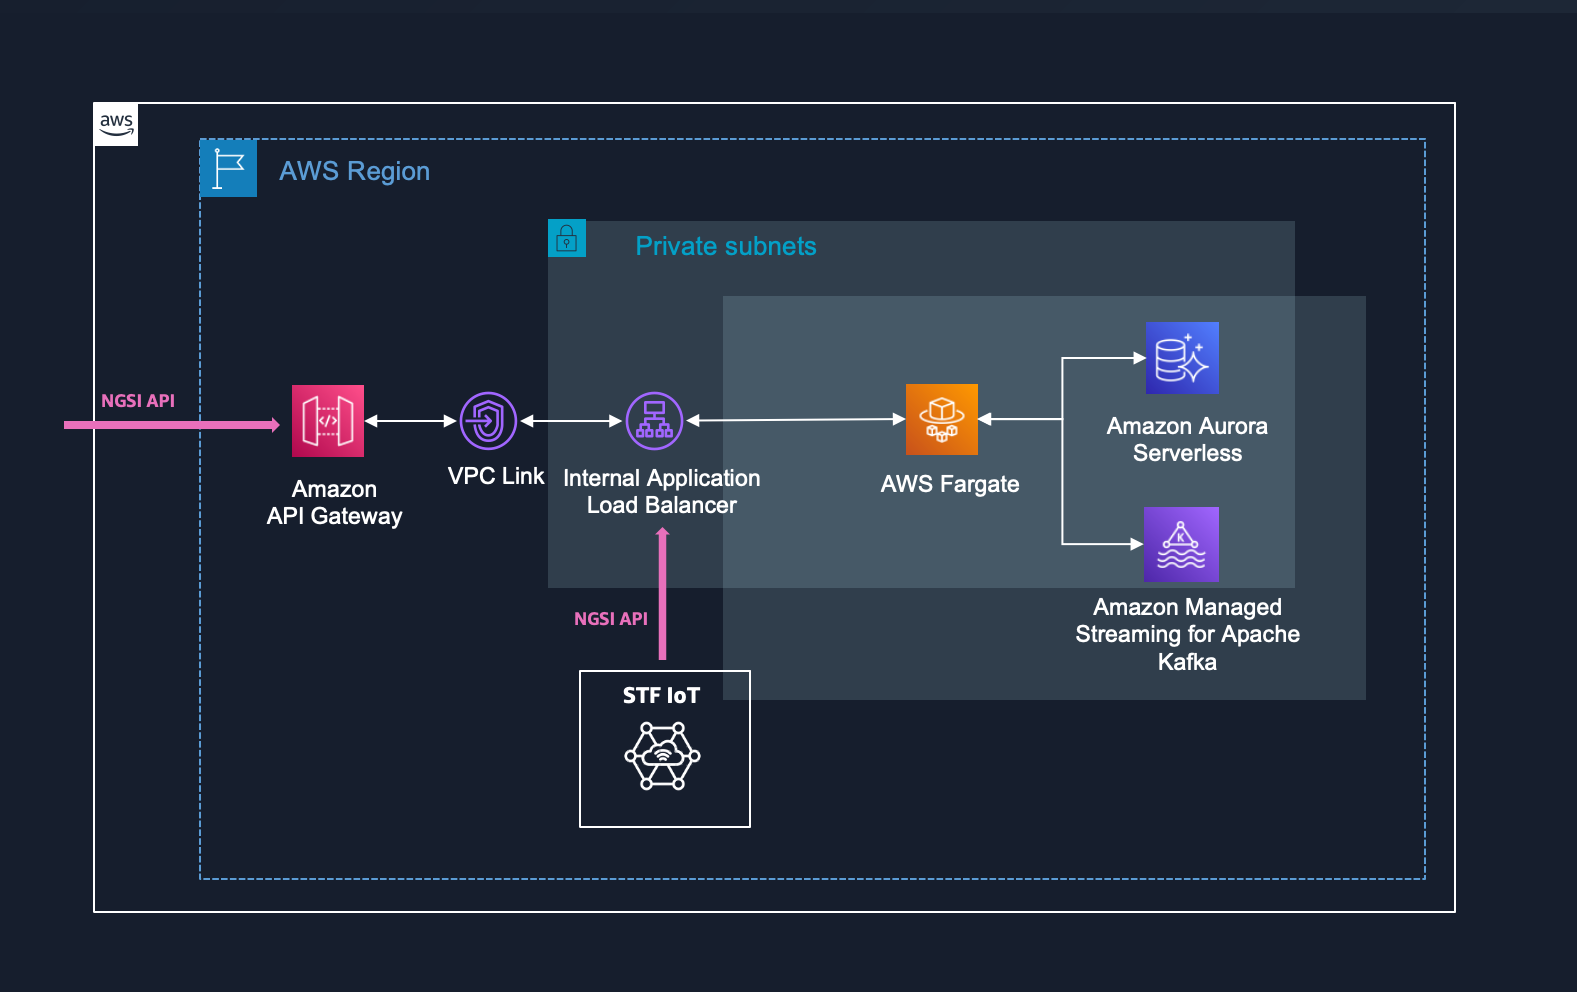
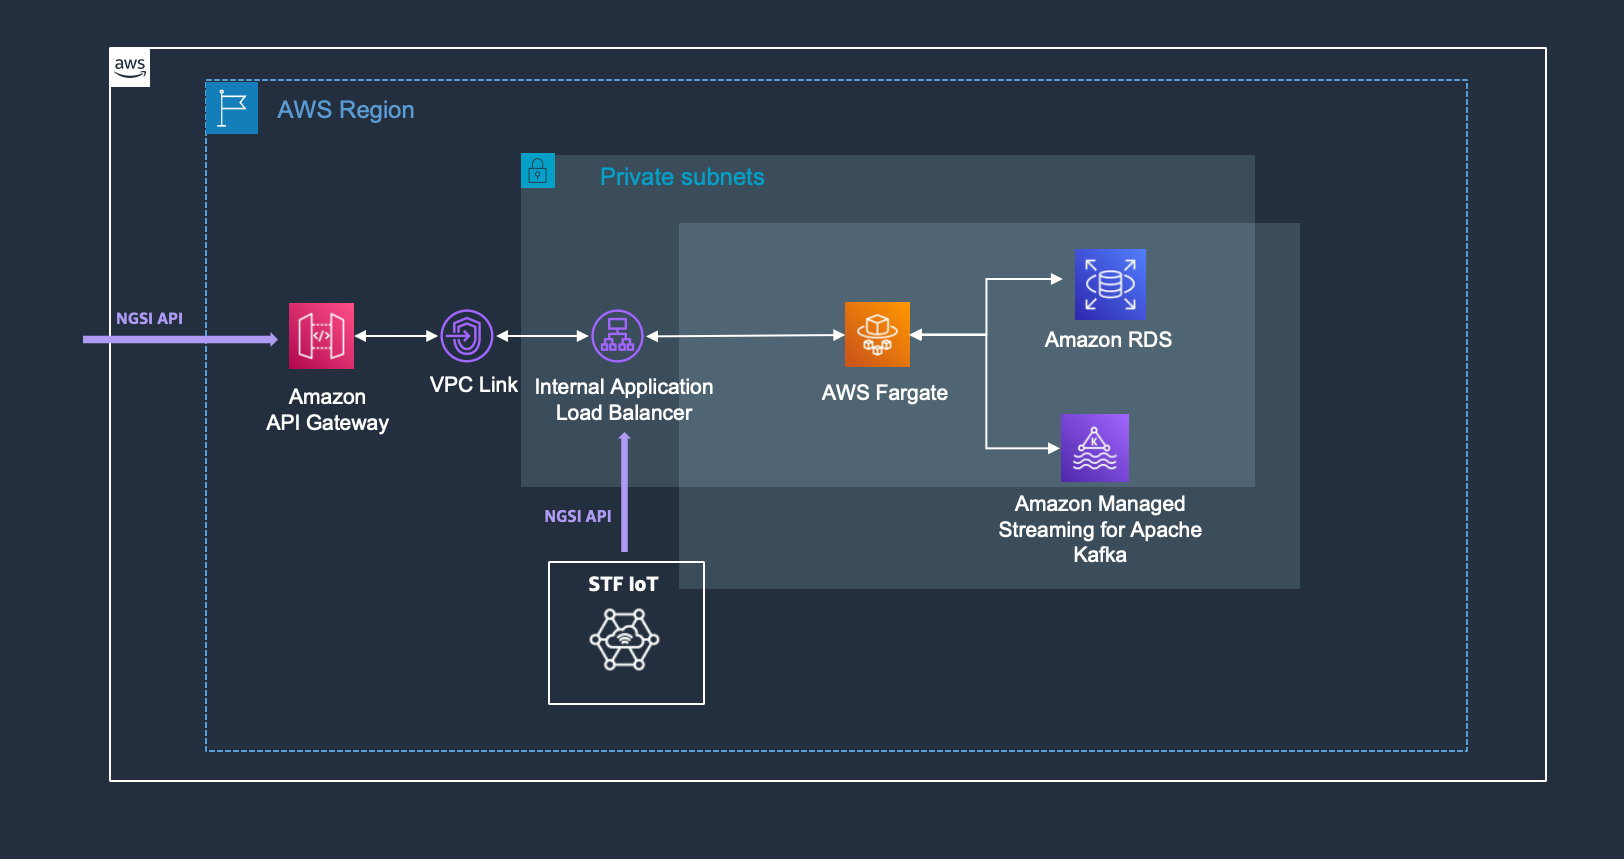
version 1.1.0

diff --git a/lib/stacks/stf-iot/stf-iot-api/index.ts b/lib/stacks/stf-iot/stf-iot-api/index.ts
@@ -38,49 +38,48 @@ export class StfIotApi extends Construct {
         const AWS_IOT_ENDPOINT = get_iot_endpoint.getResponseField('endpointAddress')
 
         // ENABLE FLEET INDEXING
+        let fleet_param 
+        if(Parameters.stf_iot.shadow_indexing){
+            fleet_param = {
+                "thingIndexingConfiguration": {
+                    "thingIndexingMode": "REGISTRY_AND_SHADOW",
+                    "namedShadowIndexingMode": "ON",
+                    "filter": {
+                        "namedShadowNames": [
+                            `${Parameters.stf_iot.shadow_prefix}-Device`
+                        ]
+                    }
+    
+                },
+                "thingGroupIndexingConfiguration": {
+                    "thingGroupIndexingMode": "ON"
+                }
+            }
+        } else {
+            fleet_param = {
+                "thingIndexingConfiguration": {
+                    "thingIndexingMode": "REGISTRY"
+                },
+                "thingGroupIndexingConfiguration": {
+                    "thingGroupIndexingMode": "ON"
+                }
+            }
+        }
+
+
 
         const fleet_indexing = new AwsCustomResource(this, 'IoTFleetIndexing', {
             onCreate: {
                 service: 'Iot',
                 action: 'updateIndexingConfiguration',
                 physicalResourceId: PhysicalResourceId.of(Date.now().toString()),
-                parameters: {
-                    "thingIndexingConfiguration": {
-                        "thingIndexingMode": "REGISTRY_AND_SHADOW",
-                        "thingConnectivityIndexingMode": "STATUS",
-                        "namedShadowIndexingMode": "ON",
-                        "filter": {
-                            "namedShadowNames": [
-                                `${Parameters.stf_iot.shadow_prefix}-Device`
-                            ]
-                        }
-
-                    },
-                    "thingGroupIndexingConfiguration": {
-                        "thingGroupIndexingMode": "ON"
-                    }
-                }
+                parameters: fleet_param
               },
               onUpdate: {
                 service: 'Iot',
                 action: 'updateIndexingConfiguration',
                 physicalResourceId: PhysicalResourceId.of(Date.now().toString()),
-                parameters: {
-                    "thingIndexingConfiguration": {
-                        "thingIndexingMode": "REGISTRY_AND_SHADOW",
-                        "thingConnectivityIndexingMode": "STATUS",
-                        "namedShadowIndexingMode": "ON",
-                        "filter": {
-                            "namedShadowNames": [
-                                `${Parameters.stf_iot.shadow_prefix}-Device`
-                            ]
-                        }
-
-                    },
-                    "thingGroupIndexingConfiguration": {
-                        "thingGroupIndexingMode": "ON"
-                    }
-                }
+                parameters: fleet_param
               },
               policy: AwsCustomResourcePolicy.fromSdkCalls({resources: AwsCustomResourcePolicy.ANY_RESOURCE})
         })

diff --git a/lib/stacks/stf-iot/stf-iot-core/lambda/updateContextBroker/index.js b/lib/stacks/stf-iot/stf-iot-core/lambda/updateContextBroker/index.js
@@ -10,16 +10,17 @@ const URL_SMART_DATA_MODEL = process.env.URL_SMART_DATA_MODEL
 
 
 exports.handler = async (event, context) => {
-    try {
-        for await (let msg of event.Records){
 
+    try {
+        let entities = []
+
+        for await (let msg of event.Records){
             let payload = JSON.parse(msg.body)
             const thingName = `${payload.id.split(':').slice(-1)}`
-          
             if(!payload.id || !payload.type){
-                throw new Error('Invalid entity - id or type is missing')
+                throw new Error('Invalid entity: id or type is missing')
             }
-            
+
             // Check if location property is in the payload. If not, get it from the Stf-Device named shadow 
             if(!payload.location && payload.type != 'Device') {
                 
@@ -51,34 +52,17 @@ exports.handler = async (event, context) => {
                     console.log(e.message)
                 }
             }
-            const entity_id = payload.id
-            const entity_type = payload.type
-            delete payload.id
-            delete payload.type
-
             if (payload.raw) delete payload.raw
-
-            const headers = {
-                'Content-Type': 'application/json',
-                'Link': `<${URL_SMART_DATA_MODEL}>; rel="http://www.w3.org/ns/json-ld#context"; type="application/ld+json"`
-                }
-            try {
-                let update_entity = await axios.post(`${dns_broker}/entities/${entity_id}/attrs`, payload, {headers: headers, timeout: timeout}) 
-            } catch (e) {
-                if (e.response){
-                    if (e.response.status == 404){
-                        try {
-                            payload.id = entity_id
-                            payload.type = entity_type
-                            let create_entity = await axios.post(`${dns_broker}/entities`, payload, {headers: headers, timeout: timeout})
-                        } catch (e) {
-                            log_error(event,context, e.message, e)
-                        }
-                    }
-                } else {
-                    log_error(event,context, e.message, e)
-                }     
+            entities.push(payload)
+        }
+        const headers = {
+            'Content-Type': 'application/json',
+            'Link': `<${URL_SMART_DATA_MODEL}>; rel="http://www.w3.org/ns/json-ld#context"; type="application/ld+json"`
             }
+        try {
+            let upsert = await axios.post(`${dns_broker}/entityOperations/upsert`, entities, {headers: headers, timeout: timeout}) 
+        } catch (e) {
+            log_error(event,context, e.message, e)  
         }
     } catch (e) {
         log_error(event,context, e.message, e)

diff --git a/parameters.ts b/parameters.ts
@@ -4,19 +4,20 @@ import { AuroraCapacityUnit, StorageType } from "aws-cdk-lib/aws-rds";
 
 export const Parameters = {
     stf_iot: {
-        new_bucket: true, // If true, the stack will create the bucket for the STF IoT DataLake. Set to false if you have already a bucket created. 
+        new_bucket: false, // If true, the stack will create the bucket for the STF IoT DataLake. Set to false if you have already a bucket created. 
         bucket_name: `stf-iot-datalake-${Aws.REGION}-${Aws.ACCOUNT_ID}`, // Default name, change only if needed.
         shadow_prefix: "Stf",
         sqs_iot_queue_name: `StfIoTQueue-${Aws.REGION}`, // Default name, change only if needed.
         smart_data_model_url : 'https://raw.githubusercontent.com/smart-data-models/data-models/master/context.jsonld',
         timeout: '0', // Timeout for the API call in the Lambda that sync with context broker. Has to be a string to pass it in env variable 
+        shadow_indexing: false // Activating Fleet Indexing for the shadows will occur costs, see https://aws.amazon.com/iot-device-management/pricing/ 
     }, 
     stf_scorpio: {
-        image_context_broker: 'public.ecr.aws/scorpiobroker/scorpio-aio:latest', // Like to ECR Public gallery of Scoprio Broker image.
+        image_context_broker: 'public.ecr.aws/scorpiobroker/scorpio-aio:latest', // Link to ECR Public gallery of Scorpio Broker image.
         rds_instance_type: InstanceType.of( InstanceClass.BURSTABLE4_GRAVITON, InstanceSize.SMALL), // see https://aws.amazon.com/rds/instance-types/
         rds_storage_type: StorageType.GP3, // see https://docs.aws.amazon.com/AmazonRDS/latest/UserGuide/CHAP_Storage.html
         dabaseName: 'scorpio',
-        aurora_serverless: false, // If false, this will create a RDS PostgreSQL Database instance.
+        aurora_serverless: false, // If false, this creates a RDS PostgreSQL Database instance. If true, this creates an Aurora Cluster.  
         aurora_scaling: {
             maxCapacity: AuroraCapacityUnit.ACU_4,
             minCapacity: AuroraCapacityUnit.ACU_2      
@@ -26,7 +27,8 @@ export const Parameters = {
         kafka_version: "3.3.1", // see https://docs.aws.amazon.com/msk/latest/developerguide/supported-kafka-versions.html  
         kafka_instance_type: "kafka.t3.small", // see https://docs.aws.amazon.com/msk/latest/developerguide/bestpractices.html
         kafka_cluster_name: 'ScorpioCluster', 
-        kafka_storage_size: 100 //  see https://docs.aws.amazon.com/msk/latest/developerguide/bestpractices.html
+        kafka_storage_size: 100, //  see https://docs.aws.amazon.com/msk/latest/developerguide/bestpractices.html
+        fargate_desired_count: 2
     },
     vpc_link_name: 'scorpio-serverless-vpc-link'
 }

diff --git a/lib/stacks/stf-iot/stf-iot-api/lambda/getThings/index.js b/lib/stacks/stf-iot/stf-iot-api/lambda/getThings/index.js
@@ -26,7 +26,7 @@ exports.handler = async (event) => {
 
         let {things, nextToken} = await iot.searchIndex({
             nextToken: nToken,
-            queryString: `shadow.name.${shadow_prefix}-${index}.reported.type:*`,
+            queryString: `thingName:*`,
             indexName: 'AWS_Things'
         }).promise()
 
@@ -35,7 +35,7 @@ exports.handler = async (event) => {
                     { thingName: curr.thingName, 
                       thingGroupNames: curr.thingGroupNames, 
                       thingTypeName: curr.thingTypeName, 
-                      entity: {...JSON.parse(curr.shadow).name[`${shadow_prefix}-${index}`].reported}
+                      entity: {...JSON.parse(curr?.shadow)?.name[`${shadow_prefix}-${index}`]?.reported}
                     }
             ]
         }, [])

diff --git a/lib/stacks/scorpio-serverless/fargate/index.ts b/lib/stacks/scorpio-serverless/fargate/index.ts
@@ -83,7 +83,7 @@ export class ScorpioServerlessFargate extends Construct {
                 rollback: true
             },
             cpu: 512, 
-            desiredCount: 2, 
+            desiredCount: Parameters.stf_scorpio.fargate_desired_count, 
             publicLoadBalancer: false, 
             taskImageOptions: {
                 image: ContainerImage.fromRegistry(props.image_context_broker),

diff --git a/lib/stacks/scorpio-serverless/networking/index.ts b/lib/stacks/scorpio-serverless/networking/index.ts
@@ -16,6 +16,7 @@ export class ScorpioServerlessNetworking extends Construct{
 
         // VPC 
         const vpc = new Vpc(this, 'VpcStfScorpioServerless', {
+            natGateways: 1, 
             subnetConfiguration: [
                 {
                     subnetType: SubnetType.PRIVATE_WITH_EGRESS,

diff --git a/README.md b/README.md
@@ -13,14 +13,14 @@ __This README is not yet updated to Version 1.1.0__
 
 ## Overview 
 
-The Smart Territory Framework - STF - is a set of tools and standardized modules that our partners and customers can assemble together to build and operate sustainable and highly effective solutions. 
+The Smart Territory Framework – STF – is an open-source framework that makes it easier and faster to create and operate interoperable platforms. STF supports the development and integration of smart and efficient solutions across multiple domains such as Smart Cities, Campuses and Regions; Energy and Utilities; Agriculture; Smart Building and Manufacturing.
 
 The STF complies with [NGSI-LD](https://www.etsi.org/technologies/internet-of-things) standard and leverages the NGSI-LD compliant [Smart Data Models](https://smartdatamodels.org/) initiative that provides open-licensed data models for different [domains](https://github.com/smart-data-models/data-models/tree/master/specs) such as Smart Cities, Smart Agrifood, Smart Environment, Smart Sensoring, Smart Energy, Smart Water, Smart Destination, Smart Robotics and Smart Manufacturing.
 
 Modular and built on open source and standards, the STF makes it easy to integrate existing solutions and add new capabilities and modules over time to its **core**. The core of the STF - STF Core - consists of two modules: the STF IoT module and the open-source FIWARE Context Broker.
 
 This repository contains an [AWS CDK](https://aws.amazon.com/cdk) application that enables you to deploy the STF Core stack. The STF Core stack consists of two nested stacks: 
-- a stack to deploy the NEC Scorpio Context Broker (using [Serverless services on AWS](https://aws.amazon.com/serverless/?nc1=h_ls)),
+- a stack to deploy the NEC Scorpio Context Broker,
 - a stack to deploy the STF IoT module.
 
 <br>
@@ -65,8 +65,8 @@ The STF Core leverages [Serverless services on AWS](https://aws.amazon.com/serve
 [NEC Laboratories Europe](https://www.neclab.eu/) and AWS have [worked together]((https://neclab.eu/about-us/press-releases/detail/nec-ngsi-ld-scorpio-broker-selected-for-amazon-web-services-smart-territories-framework)) to provide a scalable and available implementation of the NEC Scorpio Broker 2.0 on AWS using:
 
 - [AWS Fargate](https://aws.amazon.com/fargate/?nc1=h_ls) to easily run and scale the [NEC Scorpio Broker container](https://gallery.ecr.aws/j9u9o5d1/). 
-- [Amazon Aurora Serverless](https://aws.amazon.com/rds/aurora/serverless/?nc1=h_ls) to automatically start up, shut down, and scale capacity up or down for the PostgreSQL database used by NEC Scorpio Broker. 
-- **[ Coming soon ]** [Amazon MSK Serverless](https://aws.amazon.com/msk/features/msk-serverless/) to make it easy to run the Apache Kafka used by NEC Scorpio Broker without having to manage and scale cluster capacity. **For now, this stack uses [Amazon MSK](https://aws.amazon.com/msk/)**. 
+- [Amazon RDS](https://aws.amazon.com/rds) or [Amazon Aurora Serverless](https://aws.amazon.com/rds/aurora/serverless/?nc1=h_ls) for the PostgreSQL database used by NEC Scorpio Broker. 
+- [Amazon MSK](https://aws.amazon.com/msk) to make it easy to run the Apache Kafka used by NEC Scorpio Broker. 
 
 <br>
 
@@ -90,11 +90,13 @@ It also consists of an IoT data lake built on [Amazon S3](https://aws.amazon.com
 
 The STF IoT module provides a [central registry](https://docs.aws.amazon.com/iot/latest/developerguide/iot-thing-management.html) to store all your devices following the Smart Data Model [```Device```](https://github.com/smart-data-models/dataModel.Device/blob/master/Device/README.md). 
 
-All measurements and data produced by a device are linked to the registered device and stored in its [Device Shadows](https://docs.aws.amazon.com/iot/latest/developerguide/iot-device-shadows.html) following the relevant data model like for example [```AirQualityObserved```](https://github.com/smart-data-models/dataModel.Environment/blob/master/AirQualityObserved/README.md) for air quality measurements. 
+All measurements and data produced by a device are linked to the registered device and stored in its [Device Shadows](https://docs.aws.amazon.com/iot/latest/developerguide/iot-device-shadows.html) using the relevant data model like for example [```AirQualityObserved```](https://github.com/smart-data-models/dataModel.Environment/blob/master/AirQualityObserved/README.md) for air quality measurements. 
 
 This gives an exhaustive view in real-time of the state of the device and its measurements providing Digital Twin capabilities. The STF IoT module is synchronized in real-time with the Context Broker so any change that occurs in the STF IoT module is replicated in the Context Broker and stored as well in the STF IoT Data Lake.
 
-The STF IoT Data Lake is built on top of Amazon S3. A bucket named ```stf-iot-datalake-${Aws.REGION}-${Aws.ACCOUNT_ID}``` is created when this stack is deployed. You can use an existing bucket by modifying the STF IoT Data Lake construct ([Link](./lib/stacks/stf-iot/stf-iot-stack.ts) to the file). 
+The STF IoT Data Lake is built on top of Amazon S3. 
+
+A bucket named ```stf-iot-datalake-${Aws.REGION}-${Aws.ACCOUNT_ID}``` is created when this stack is deployed. You can use an existing bucket by setting the `new_bucket` property to `false` (and if not default name used, type the name of the bucket in the property `bucket_name`) in the file [```parameters.ts```](./parameters.ts). 
 
 <br>
 
@@ -103,6 +105,7 @@ The STF IoT Data Lake is built on top of Amazon S3. A bucket named ```stf-iot-da
 <br>
 
 With a single endpoint, the STF IoT module provides an API for device management in addition to the NGSI-LD FIWARE Context Broker API. 
+
 Indeed, the STF Core provides a unified API that exposes two services:  
 - the NGSI-LD FIWARE API to interact with the FIWARE Context Broker
 - the STF IoT API to provision and manage your things in the STF IoT Registry. 
@@ -121,7 +124,13 @@ See [How to use it](##how-to-use-it) section for more details on how to use the 
 
 This repository contains an AWS CDK application that enables you to deploy and provision the STF Core stack code and its supporting infrastructure. AWS CDK provisions your resources in a safe, repeatable manner through AWS CloudFormation. 
 
-The application includes a file [```parameters.ts```](./parameters.ts) in which some configuration parameters are set like the Scorpio Broker container image URL. 
+The application includes a file [```parameters.ts```](./parameters.ts) in which you can configure the resources that you will deploy like the type and size of instances to use for the database and kafka. The default parameters will provide you with a scalable and available platform. 
+
+*You can see an __estimate__ of the monthly cost of running it following this [AWS Pricing calculator estimate](https://calculator.aws/#/estimate?id=9a9ac8992aa3e95007b64ee63281a90ffb0932b8).
+The AWS Pricing Calculator is an estimation tool that provides an __approximate cost__ of using AWS services based on the usage parameters that you specify. The AWS Pricing Calculator is not a quote tool, and does not guarantee the cost for your actual use of AWS services. The cost estimated by the AWS Pricing Calculator may vary from your actual costs for a number of reasons. 
+__This estimation does not include messaging costs.__*
+
+
 
 <br>
 
@@ -297,7 +306,7 @@ In this section, you will use the tool [Postman](https://www.postman.com/product
 
 You will use the Context Broker service of the STF Core unified API to create your first entity in the Context Broker.
 
-For CRUD (Create, Read, Update and Delete) operations on entities, the endpoint `{StfCoreEndpoint}/ngsi-ld/v1/entities` is used (SEE [NGSI-LD API definition](https://forge.etsi.org/swagger/ui/?url=https://forge.etsi.org/rep/NGSI-LD/NGSI-LD/raw/master/spec/updated/generated/full_api.json)). 
+For CRUD (Create, Read, Update and Delete) operations on entities, the endpoint `{StfCoreEndpoint}/ngsi-ld/v1/entities` is used (See [NGSI-LD API definition](https://forge.etsi.org/swagger/ui/?url=https://forge.etsi.org/rep/NGSI-LD/NGSI-LD/raw/master/spec/updated/generated/full_api.json)). 
 
 When using the `POST` method, you can provide the `@context` in the payload, as shown above, or in the HTTP headers:  
 ```
@@ -415,17 +424,19 @@ Now you can check that this entity has been created in the Context Broker as wel
 
 <br>
 
-You can see in the screenshot above that the `Fleet indexing status` of the named shadow `Stf-Device` is `indexed`. The STF Core stack enables [Fleet Indexing](https://docs.aws.amazon.com/iot/latest/developerguide/iot-indexing.html) for the named shadow `Stf-Devices` so you can list all the things registered in the registry with a single query. 
+*You can see in the screenshot above that the `Fleet indexing status` of the named shadow `Stf-Device` is `indexed`. Before version [1.1.O](./CHANGELOG.md#version-110), [Fleet Indexing](https://docs.aws.amazon.com/iot/latest/developerguide/iot-indexing.html) of the named shadows `Stf-Device`was enabled by default so when you listed all the things registered in the registry, you also got their named shadow `Stf-Device`. Now, it is disabled by default, so querying the list would only give you the list of things registered and not their entities. You can get the list of all entities of type `Device` directly from the Context Broker with the request `/ngsi-ld/v1/entities/?type=Device&limit=1000&offset=0`. If you need Fleet Indexing of named shadows, you can set the property `shadow_indexing`to true in the file [```parameters.ts```](./parameters.ts). Fleet Indexing will incur [costs](https://aws.amazon.com/iot-device-management/pricing/).* 
 
 <br>
 
-You can query `{StfCoreEndpoint}/iot/things` to get this list of all the things registered including their named shadow `Stf-Device`. 
+You can query `{StfCoreEndpoint}/iot/things` to get this list of all the things registered. If Fleet Indexing is enabled, this includes their named shadow `Stf-Device` in the property `entity`.
 
 <br>
 
 ![Post Shadow](./docs/images/listthings.png)
 
 <br>
+
+If Fleet Indexing is not enabled, the property `entity` will be an empty object.
 
 With the single query `{StfCoreEndpoint}/iot/things/{thingName}`, you can also get all the entities associated to the thing.
 

diff --git a/CHANGELOG.md b/CHANGELOG.md
@@ -4,25 +4,30 @@ All notable changes to this project will be documented in this file.
 
 ## Version 1.1.0 
 
-
-## Amazon RDS for PostgreSQL
-
-Now, you can choose to deploy an Amazon RDS for PostgreSQL database or an Aurora PostgreSQL. By default,the deployment relies on Amazon RDS for PostgreSQL. See the blog [Is Amazon RDS for PostgreSQL or Amazon Aurora PostgreSQL a better choice for me?](https://aws.amazon.com/blogs/database/is-amazon-rds-for-postgresql-or-amazon-aurora-postgresql-a-better-choice-for-me/) for more information. 
-
-You can choose the type of instance and storage you want to use in the parameters file. 
-
-
-## Parameters file
+### Parameters file
 
 The parameters file [```parameters.ts```](./parameters.ts) provides more options to customise the deployment like the type of instances to use for Amazon RDS (if not using Aurora) and Kafka (in Amazon MSK). 
 
-[tbc with screenshots]
+<br>
 
-## Fleet Indexing for more NGSI-LD type
+![Parameters File](./docs/images/parameters.png)
 
-Now you can use the api `{StfCoreEndpoint}/iot/index` to add and request the NGSI-LD types used in [Fleet Indexing](https://docs.aws.amazon.com/iot/latest/developerguide/iot-indexing.html). 
+<br> 
 
-[tbc]
+### Amazon RDS for PostgreSQL
+
+Now, you can choose to deploy an Amazon RDS for PostgreSQL database or an Aurora PostgreSQL. By default,the deployment relies on Amazon RDS for PostgreSQL. See the blog [Is Amazon RDS for PostgreSQL or Amazon Aurora PostgreSQL a better choice for me?](https://aws.amazon.com/blogs/database/is-amazon-rds-for-postgresql-or-amazon-aurora-postgresql-a-better-choice-for-me/) for more information. 
+
+You can choose the type of instance and storage you want to use in the [```parameters.ts```](./parameters.ts) file. 
+
+
+### Fleet Indexing
+
+Since version 1.1.0, [Fleet Indexing](https://docs.aws.amazon.com/iot/latest/developerguide/iot-indexing.html) of named shadows `Stf-Device` is disabled by default, so querying the list would only give you the list of things registered and not their entities. You can get the list of all entities of type `Device` directly from the Context Broker with the request `/ngsi-ld/v1/entities/?type=Device&limit=1000&offset=0`. If you need Fleet Indexing of named shadows, you can set the property `shadow_indexing`to true in the file [```parameters.ts```](./parameters.ts). Fleet Indexing will incur [costs](https://aws.amazon.com/iot-device-management/pricing/).
+
+If you activate Fleet Indexing of named Shadows, you can now use the api `{StfCoreEndpoint}/iot/index` to add and request the NGSI-LD types used in [Fleet Indexing](https://docs.aws.amazon.com/iot/latest/developerguide/iot-indexing.html). 
+
+[Note](https://aws.amazon.com/iot-device-management/pricing/) that Index updates are metered in increments of 1 KB. For example, an index update of 1.5KB is metered as two operations. Index updates occur when update your registry, device shadows, or device lifecycle events. For example, if you update a device shadow of 2 KB, your index update will also be 2 KB.
 
 ## Version 1.0.0 
 
